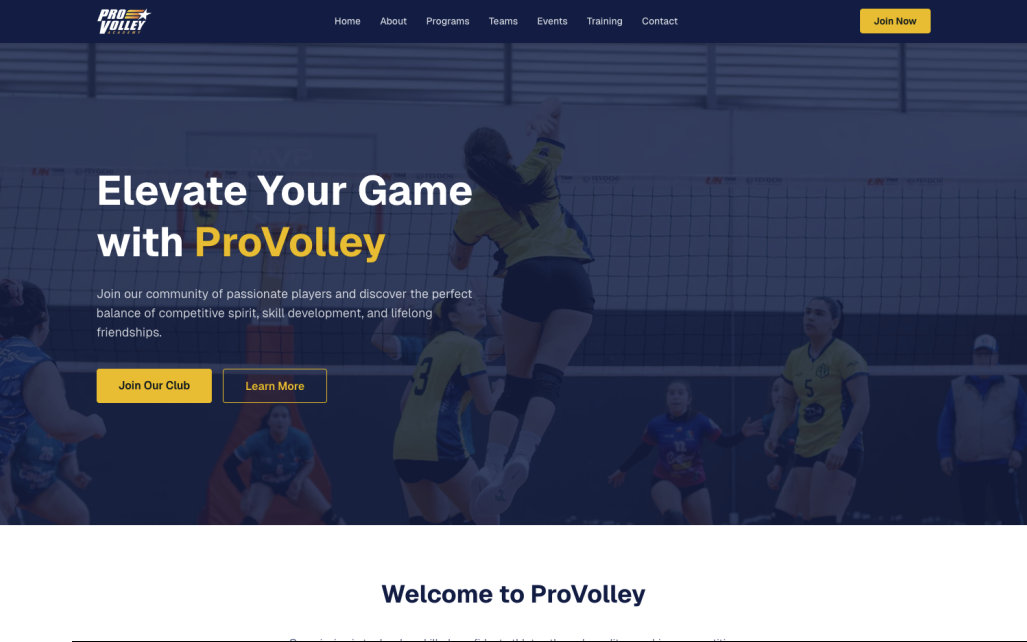
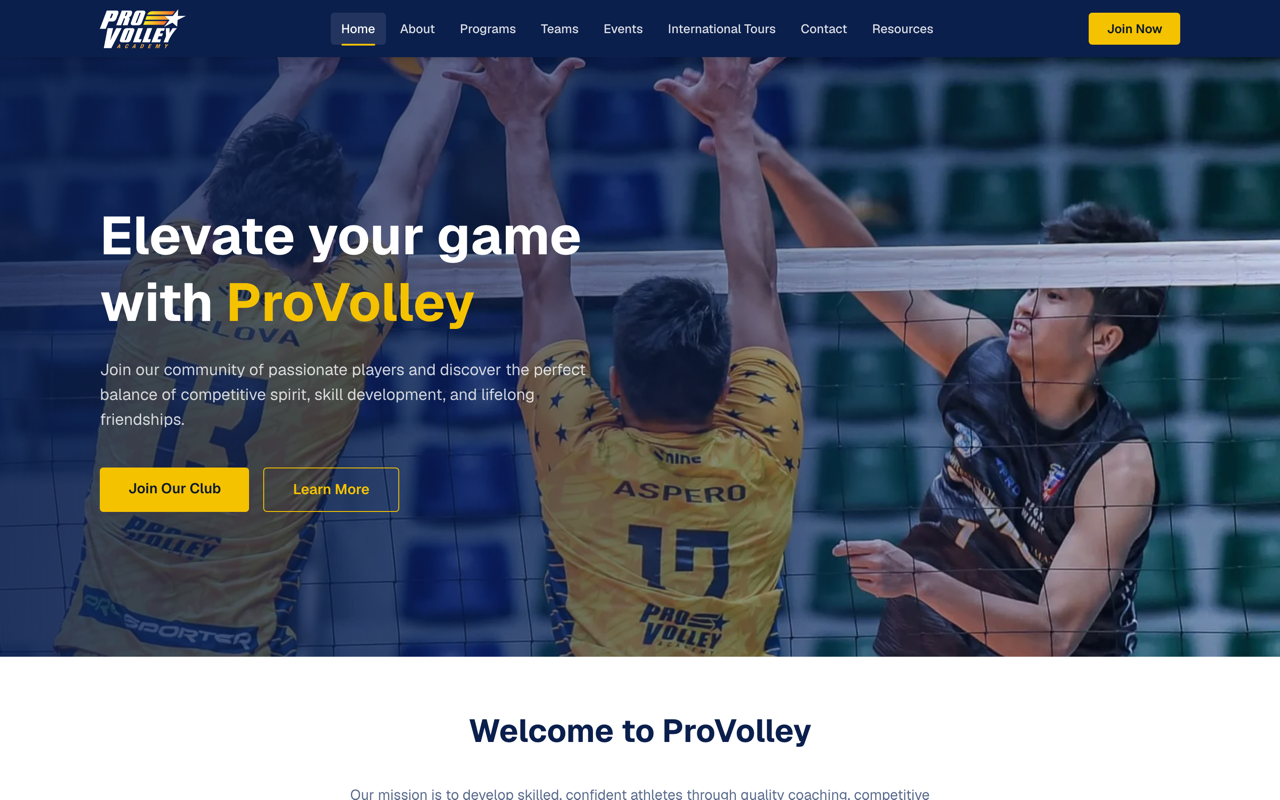
Consistent client hero previews: re-capture provolley/innerwest/prosporter identically (same 7.8% hero padding, 1280x800)

diff --git a/components/work/previews/ProvolleyPreview.tsx b/components/work/previews/ProvolleyPreview.tsx
@@ -14,8 +14,8 @@ export function ProvolleyPreview() {
       <Image
         src="/provolley.png"
         alt="ProVolley Academy site, hero section"
-        width={1027}
-        height={642}
+        width={1280}
+        height={800}
         className={styles.image}
         priority
       />
